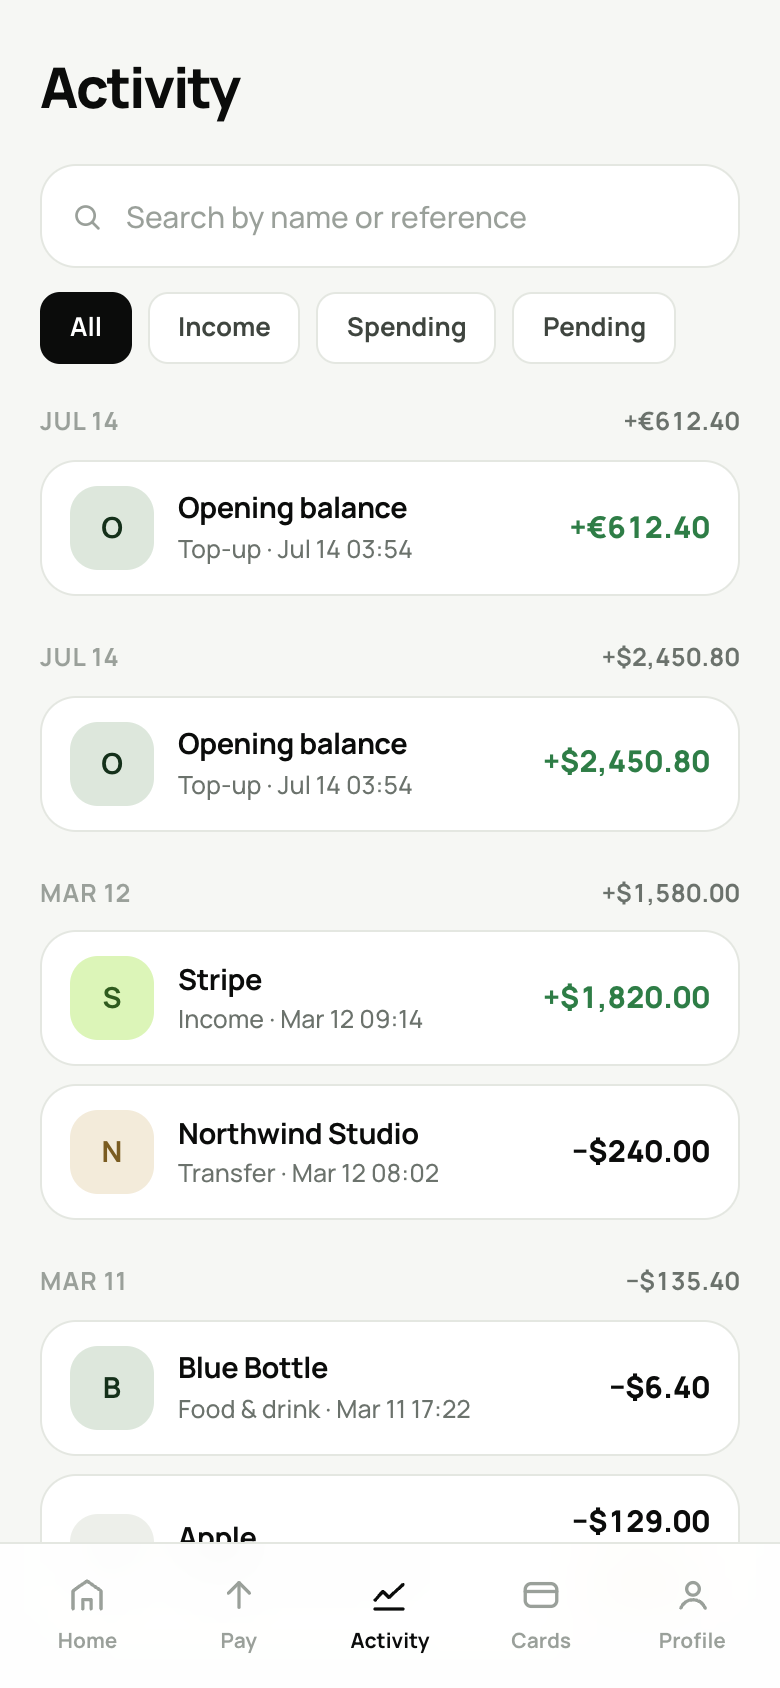
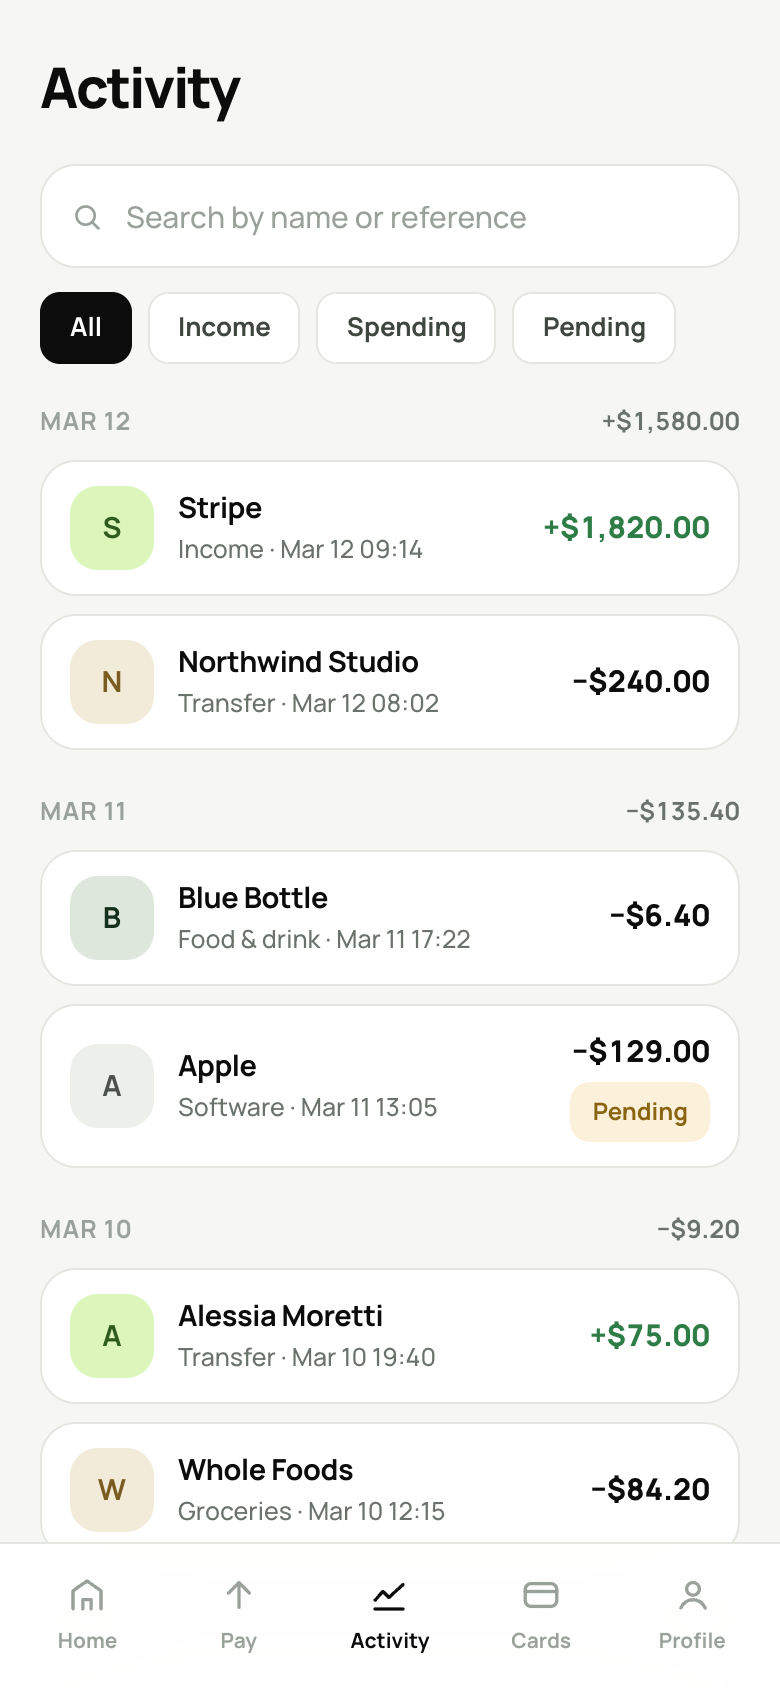
Add screenshots to the README
Captured from the running app against real data, so the design is
visible without cloning and running anything.

Also fixes the seeded opening-balance dates, which sat after the seeded
activity and made an account look funded only after the money had
already been spent.

diff --git a/README.md b/README.md
@@ -17,6 +17,33 @@ The project includes a TypeScript backend, React web app, and React Native mobil
 
 ---
 
+## A look at it
+
+<p align="center">
+  <img src="docs/screenshots/04-home-mobile.png" width="250" alt="Home screen with total balance and quick actions">
+  <img src="docs/screenshots/05-activity-mobile.png" width="250" alt="Activity feed grouped by day">
+  <img src="docs/screenshots/09-send-mobile.png" width="250" alt="Sending money with the amount keypad">
+</p>
+
+<p align="center">
+  <img src="docs/screenshots/06-cards-mobile.png" width="250" alt="Card with freeze control and monthly spending limit">
+  <img src="docs/screenshots/08-accounts-mobile.png" width="250" alt="Multi-currency account balances">
+  <img src="docs/screenshots/07-pay-mobile.png" width="250" alt="Choosing who to pay">
+</p>
+
+The same screens on a desktop browser — one codebase, with the tab bar becoming
+a side rail:
+
+<p align="center">
+  <img src="docs/screenshots/02-home-desktop.png" width="820" alt="Finto home screen on desktop">
+</p>
+
+<p align="center">
+  <img src="docs/screenshots/01-login-desktop.png" width="820" alt="Finto sign-in screen">
+</p>
+
+---
+
 ## What it does
 
 * Hold balances across **14 currencies**
